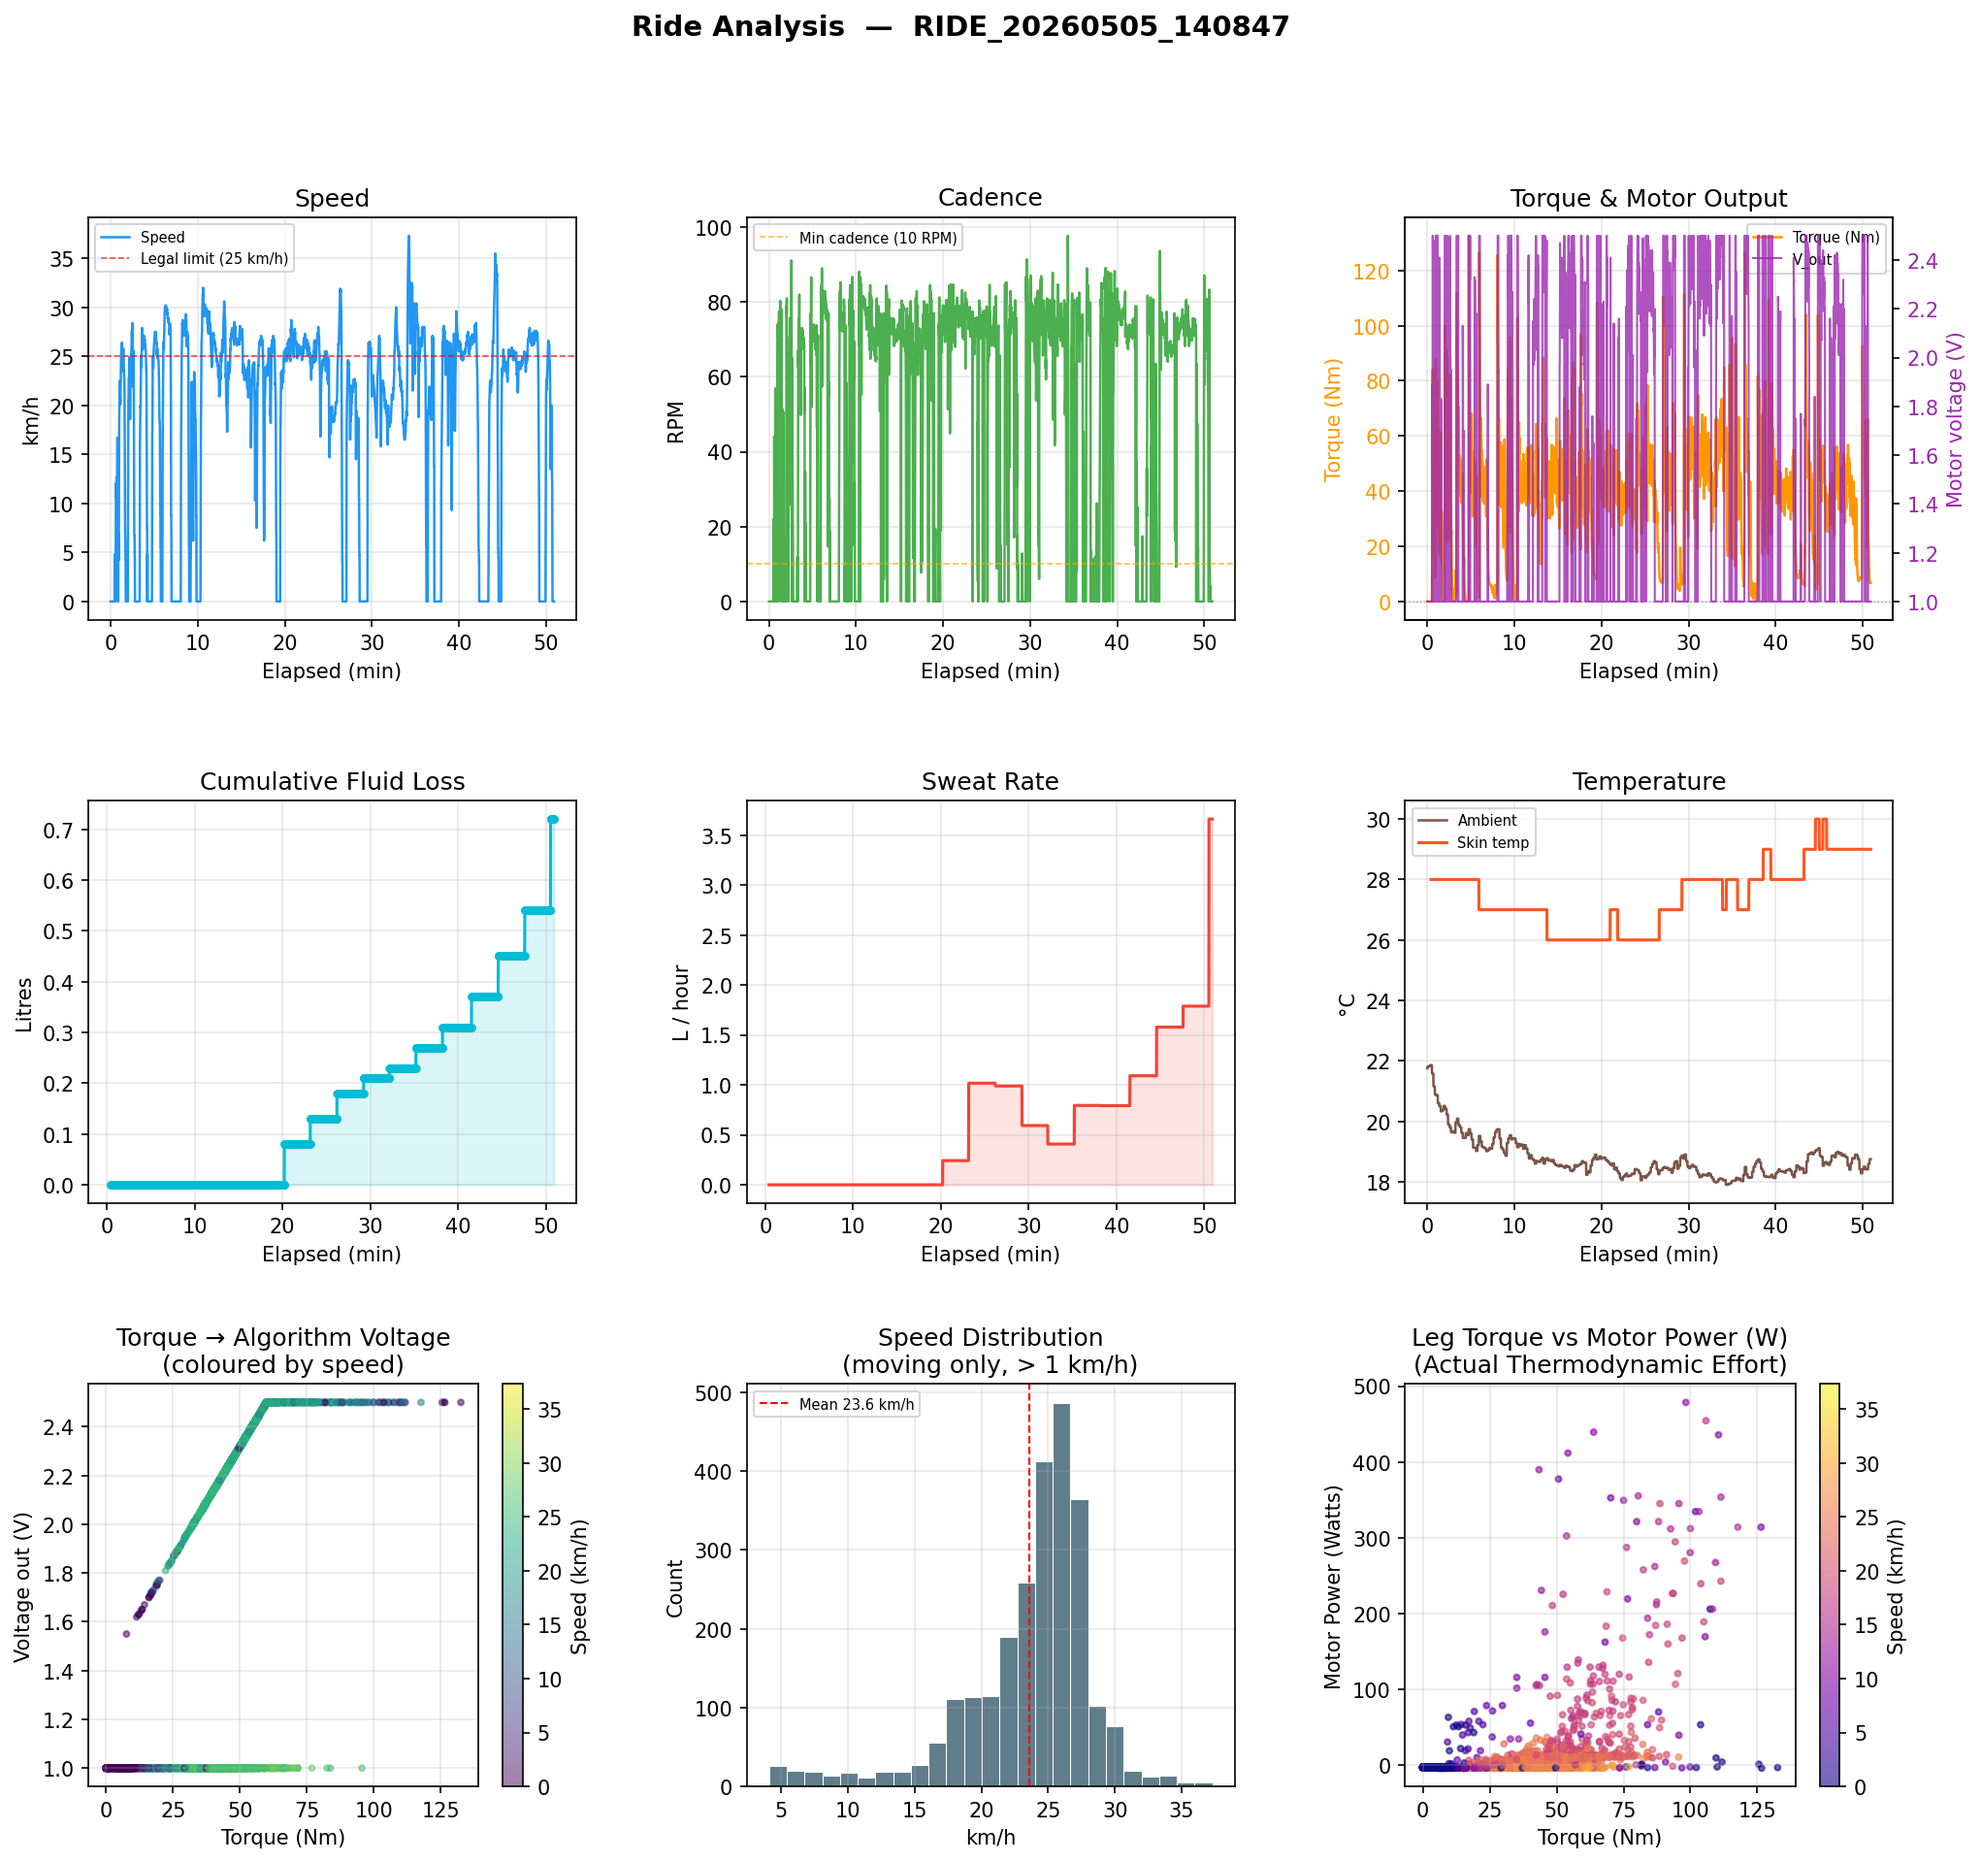
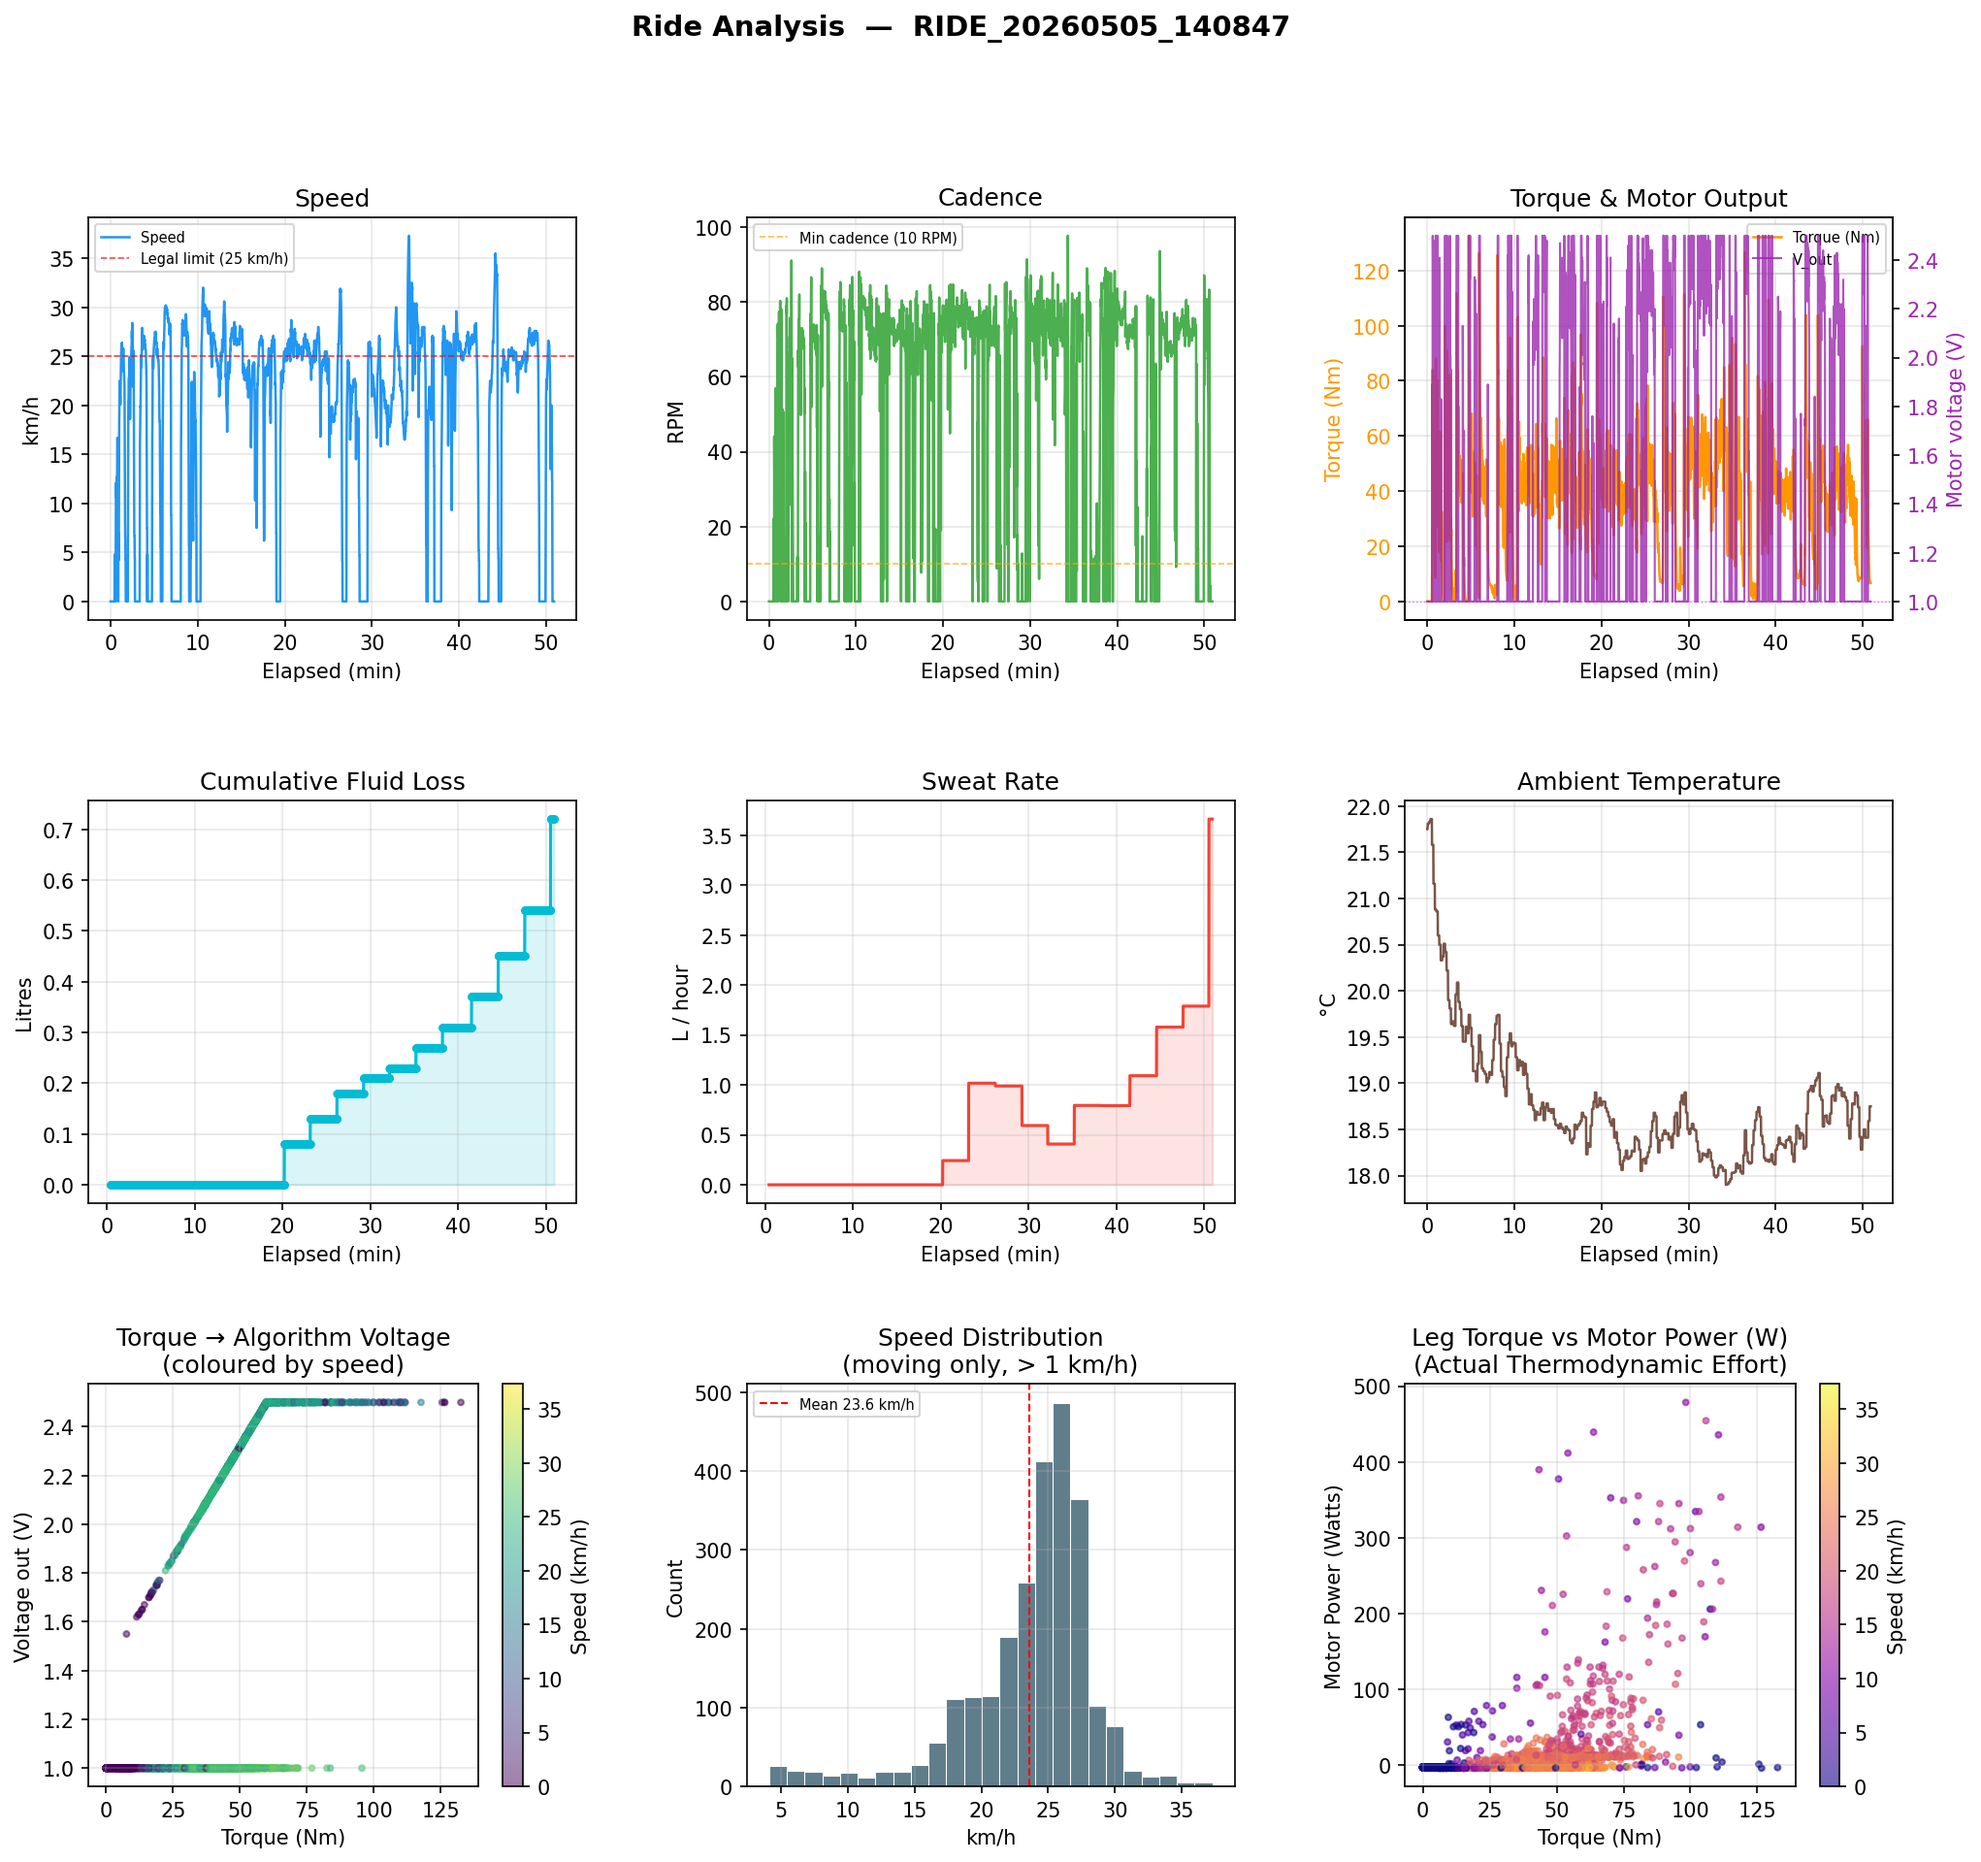
figure-adjustment

diff --git a/Data_analysis/analyse_last_ride.py b/Data_analysis/analyse_last_ride.py
@@ -194,17 +194,12 @@ def plot_ride(df: pd.DataFrame, ride_id: str):
     ax5.set_ylabel("L / hour")
     ax5.grid(True, alpha=0.3)
 
-    # ── 6. Skin temp vs ambient temp ─────────────────────────────────────────
+    # ── 6. Ambient temperature ───────────────────────────────────────────────
     ax6 = fig.add_subplot(gs[1, 2])
-    ax6.plot(x, df["temp_c"], color="#795548", linewidth=1.2, label="Ambient")
-    skin_data = df.dropna(subset=["skin_temp_c"])
-    if not skin_data.empty:
-        ax6.plot(skin_data["elapsed_min"], skin_data["skin_temp_c"],
-                 color="#FF5722", linewidth=1.5, label="Skin temp")
-    ax6.set_title("Temperature")
+    ax6.plot(x, df["temp_c"], color="#795548", linewidth=1.2)
+    ax6.set_title("Ambient Temperature")
     ax6.set_xlabel("Elapsed (min)")
     ax6.set_ylabel("°C")
-    ax6.legend(fontsize=7)
     ax6.grid(True, alpha=0.3)
 
     # ── 7. Torque vs Voltage scatter (verify algorithm mapping) ────────────────
